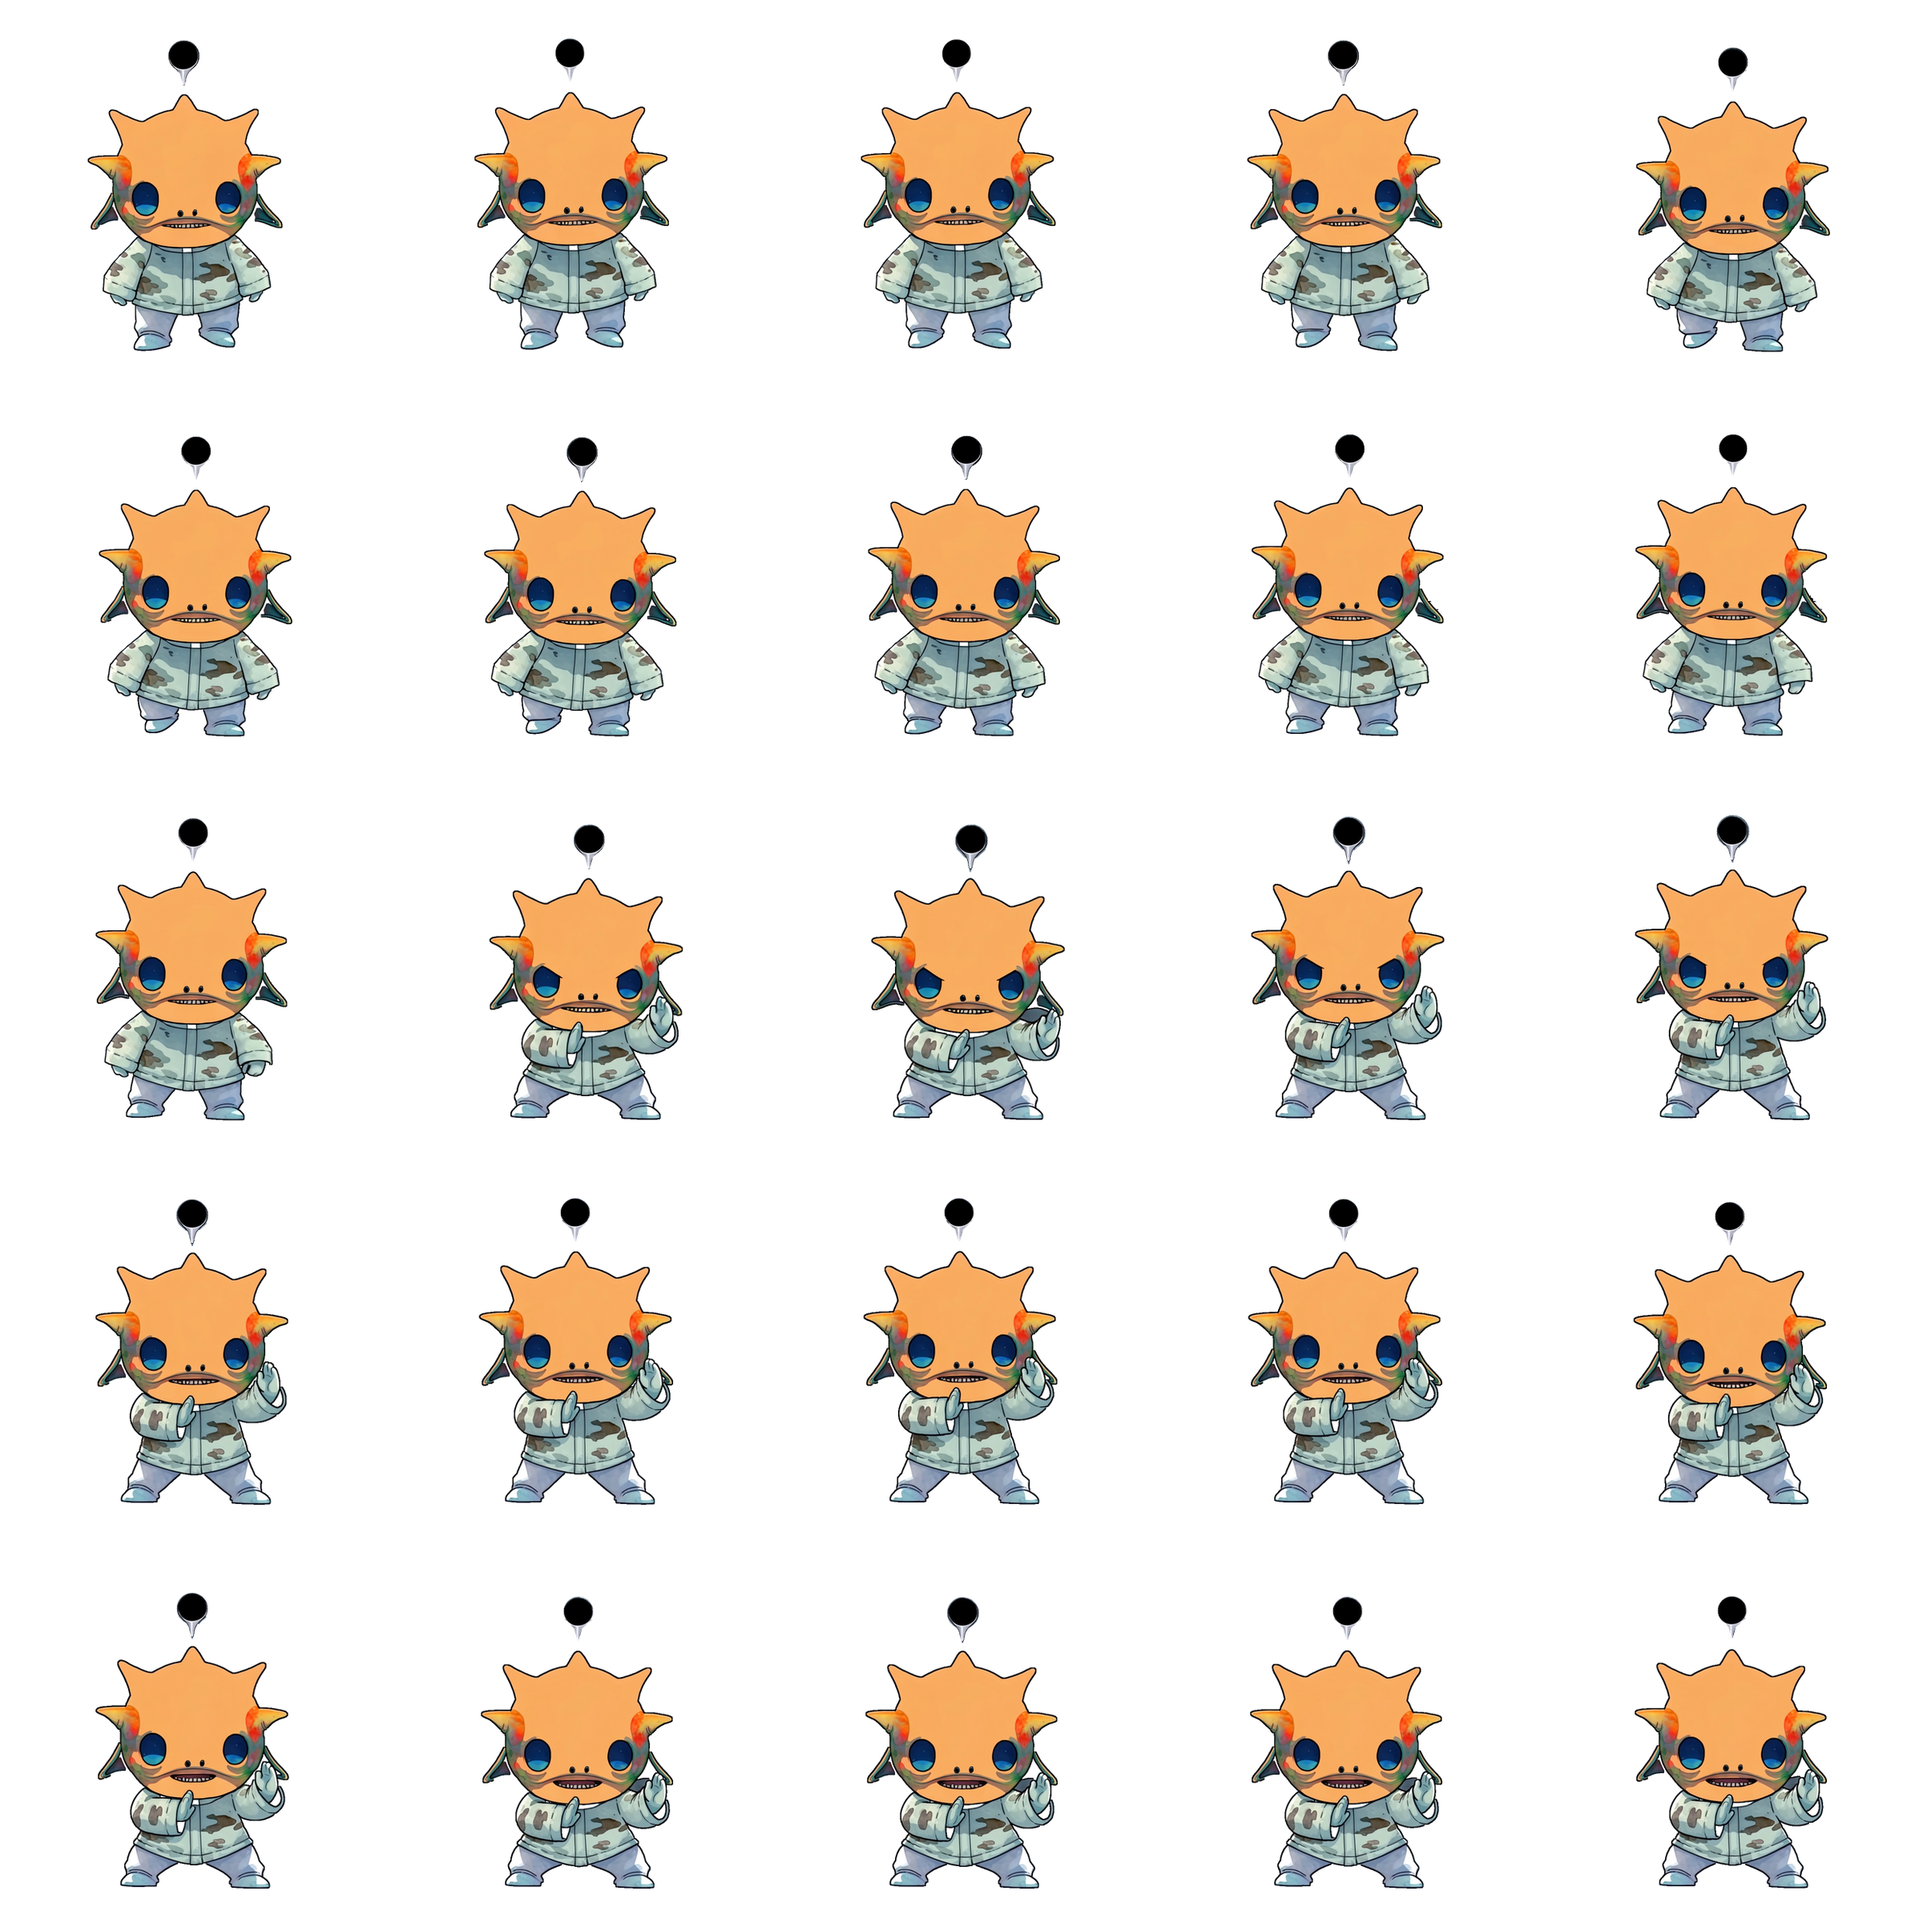
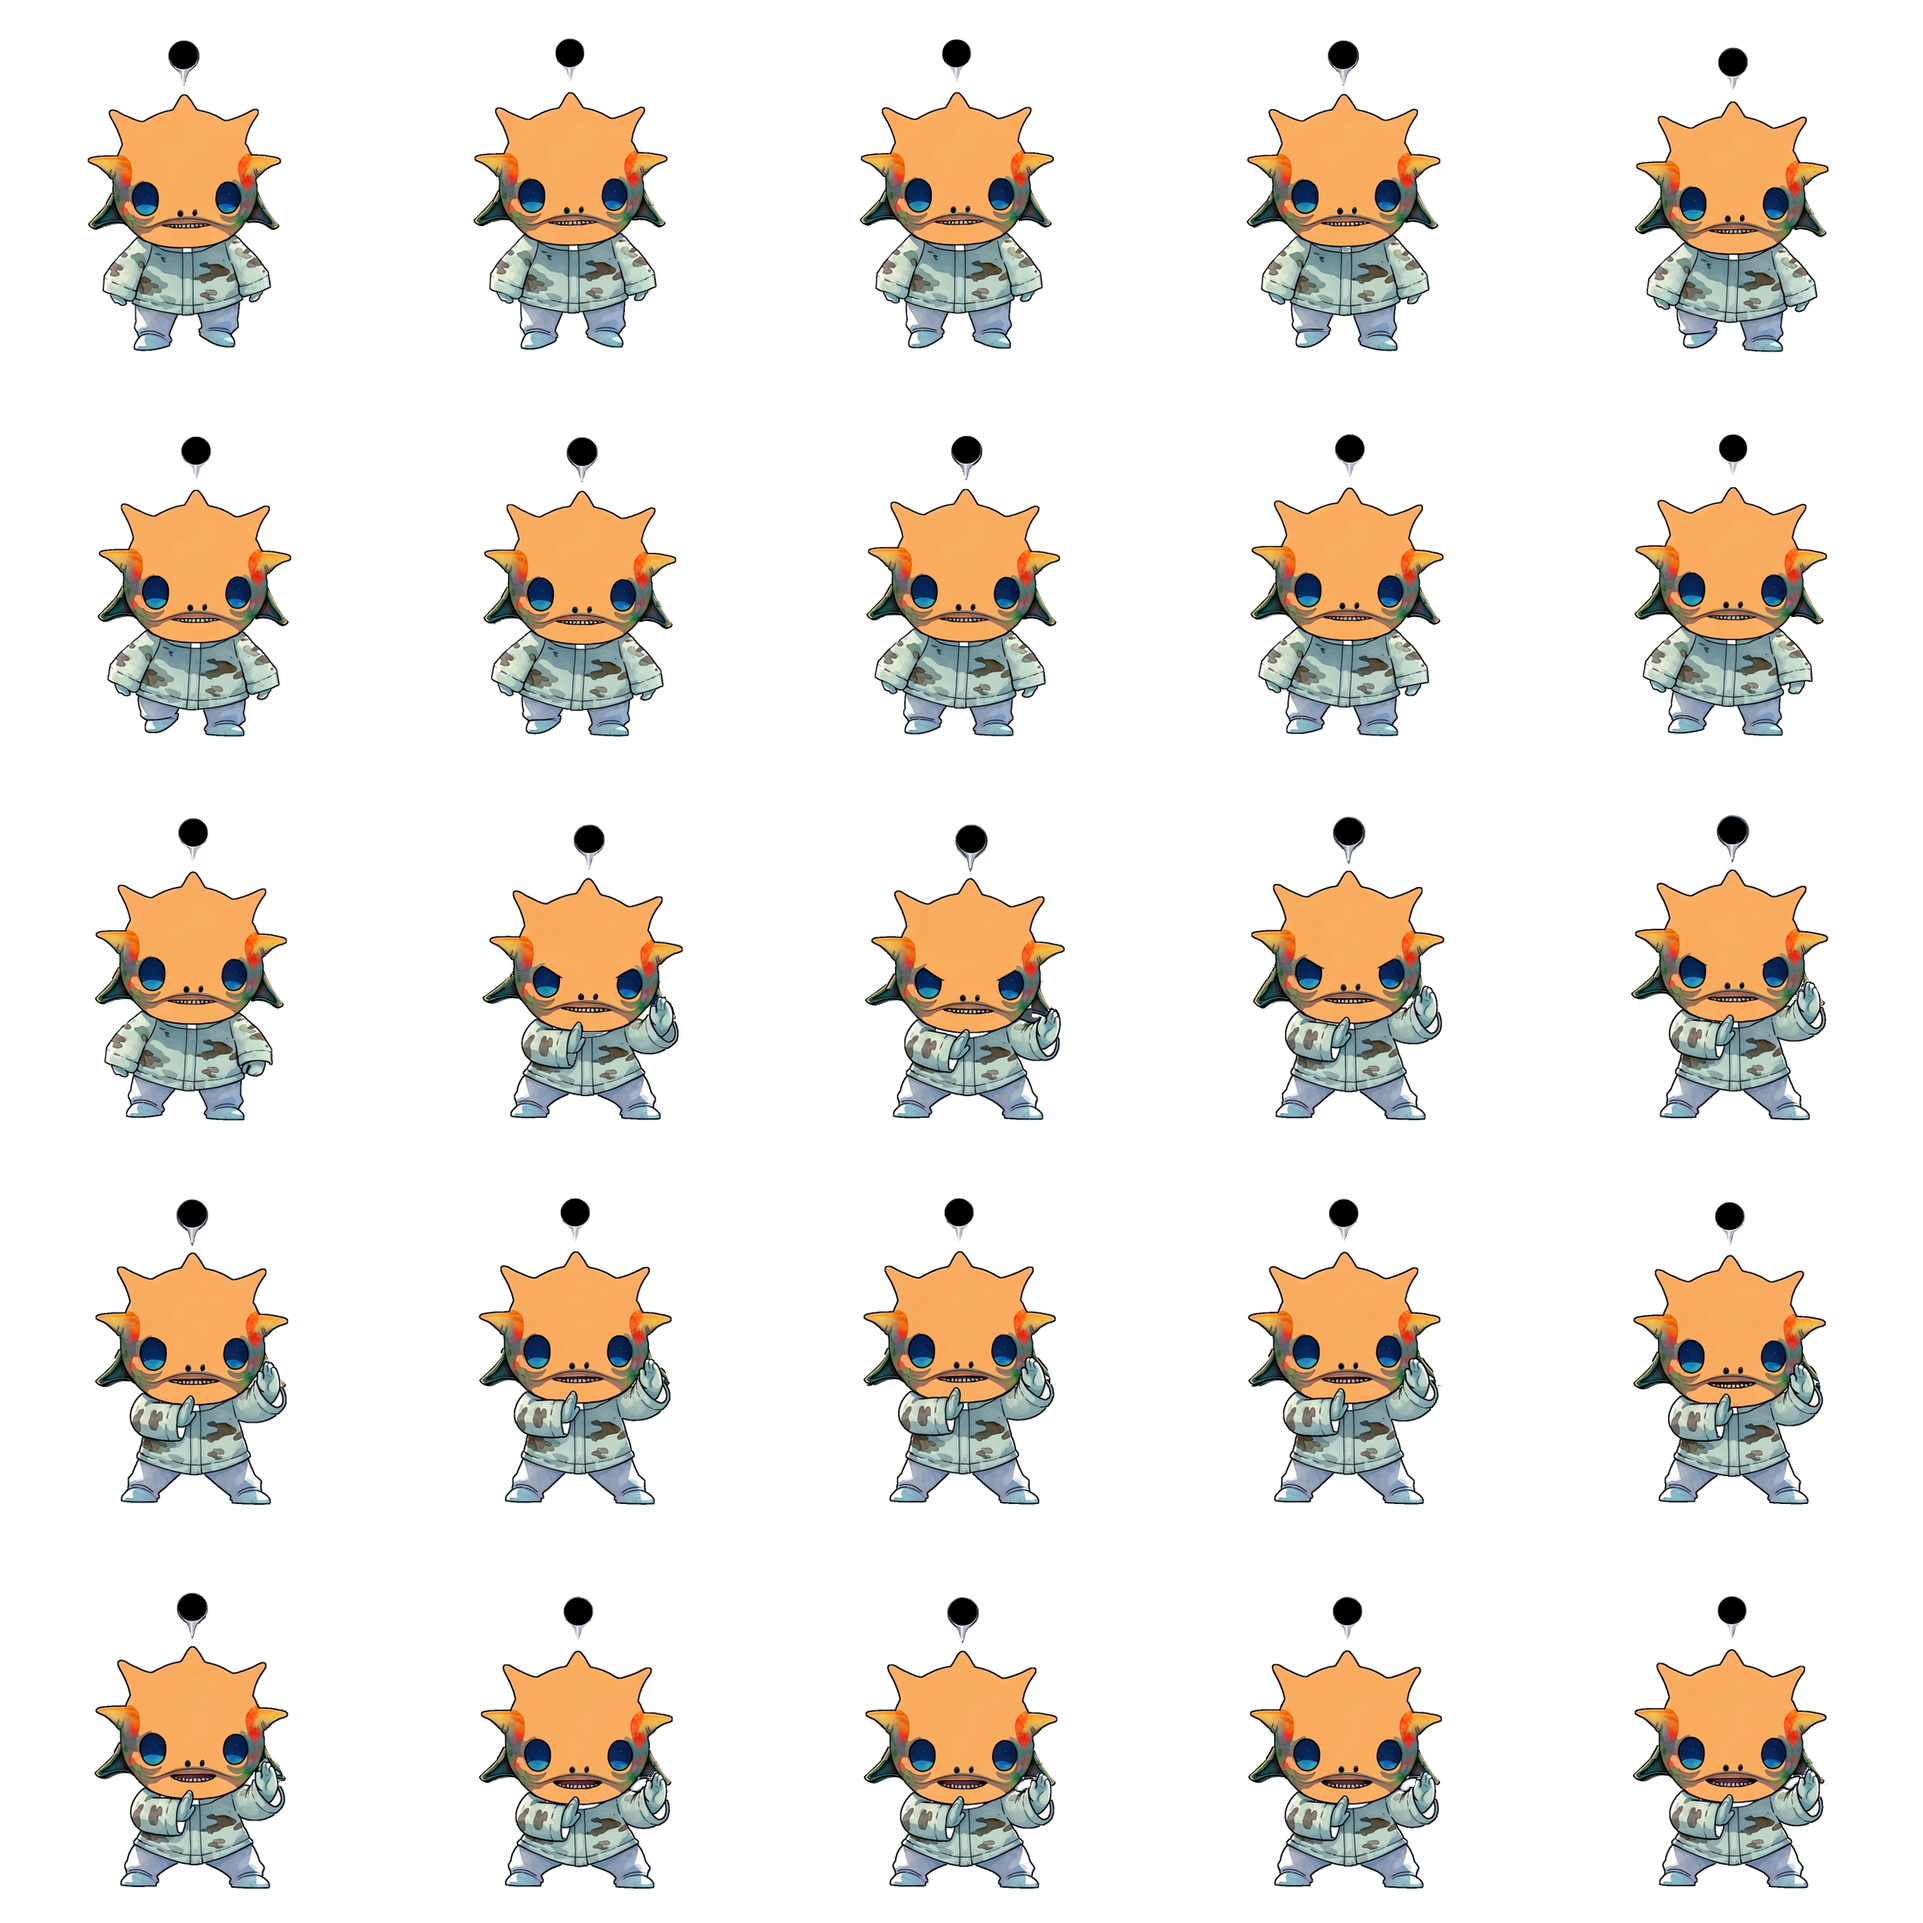
Update fighter sprites with manual ear and hand cleanup

diff --git a/assets/motions.js b/assets/motions.js
@@ -1,1 +1,1 @@
[2 lines of base64/hex data omitted]

diff --git a/index.html b/index.html
@@ -10,7 +10,7 @@
   <link rel="preload" href="assets/fonts/RussoOne-Regular.ttf?v=bc0abcc660bd8b7a" as="font" type="font/ttf" crossorigin>
   <link rel="preload" href="assets/fonts/GolosText-Variable.ttf?v=17bb58fb69aec2df" as="font" type="font/ttf" crossorigin>
   <link rel="stylesheet" href="styles.css?v=2ec138fc9b4bbb7a">
-  <script src="assets/motions.js?v=0987b4e6a2b74880" defer></script>
+  <script src="assets/motions.js?v=ac83d2966489691b" defer></script>
   <script src="assets/shitcoins.js?v=53c94a3ef9064da9" defer></script>
   <script src="music-loop.js?v=7203b60ec81fee57" defer></script>
   <script src="i18n.js?v=11d4859a5ceb5598" defer></script>

diff --git a/project.md b/project.md
@@ -97,6 +97,10 @@ The dictionary contains Russian (`ru`), English (`en`) and Simplified Chinese (`
 
 After an intentional atlas edit, run `python fighter/tools/refresh-assets.py`. It reads the current PNGs, updates hashes/cache versions and previews, and verifies that atlas bytes remain unchanged. `prepare-fighter.py` is the historical extraction/build path and protects manually edited atlases; do not use its destructive rebuild option without explicit authorization.
 
+Reference cutout: `fighter/assets/poster-character-cutout.png` is a 720×720 RGBA extraction from `poster.webp` with byte-identical source RGB and a reviewed alpha mask. `work/poster-cutout/extract_with_mask.py` reapplies `silhouette.json`; masks, contrasting previews and pixel-verification reports remain in `work/poster-cutout/`. This does not rebuild animation atlases.
+
+Ear restoration: `work/ear-repair-v2/repair.py` produced reference-based lower-ear repairs with cheek registration and original-body masks. `work/ear-repair/backup/` preserves the pre-repair atlases and manifest. The user subsequently edited PNGs in v2 `frames/`; these edits are integrated into the active atlases, including the latest manual versions of frames 044–047 (`palm1`), which supersede their temporary rollback. Preserve the current atlases and exported PNGs; do not rerun repair/integration scripts over these manual edits. V2 `masks/`, `body-protection/` and comparison previews describe the earlier generated repair, not the final manual changes. `hand/` contains isolated imagegen sleeve/glove repairs for frames 072–075 and their prompt. `work/palm1-rollback-*/`, `work/manual-sprite-import-*/` and `work/manual-palm1-import-*/` contain backups and verification reports. Run `refresh-assets.py` after intentional atlas edits. The earlier v1 underlay-only repair is superseded.
+
 ## 8. Music and sound effects
 
 `fighter/music-loop.js` contains `ZYGMusicLoop`. `play()` fetches/decodes the WAV once, starts a continuously looping Web Audio buffer and handles volume/mute gain. `pause()` preserves playback position. `_playFallback()` uses HTML Audio for direct file opening or failed Web Audio loading; epoch checks prevent stale asynchronous playback from restarting paused music.
